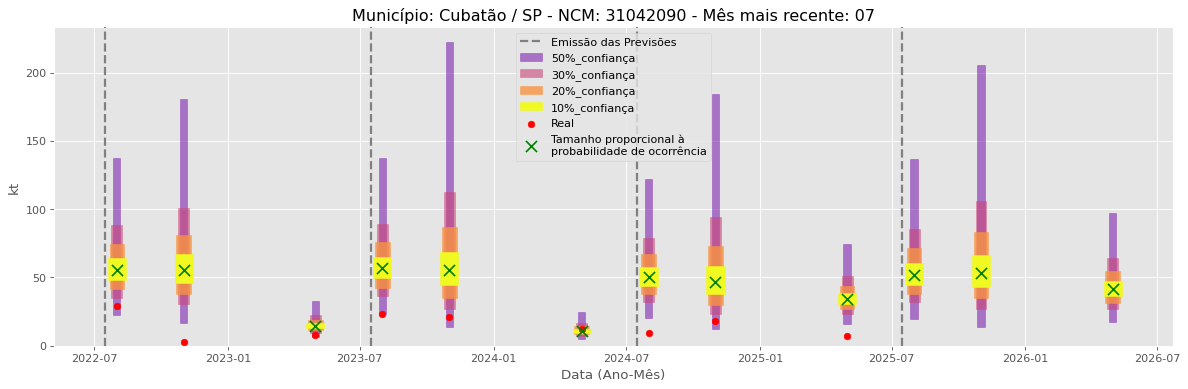
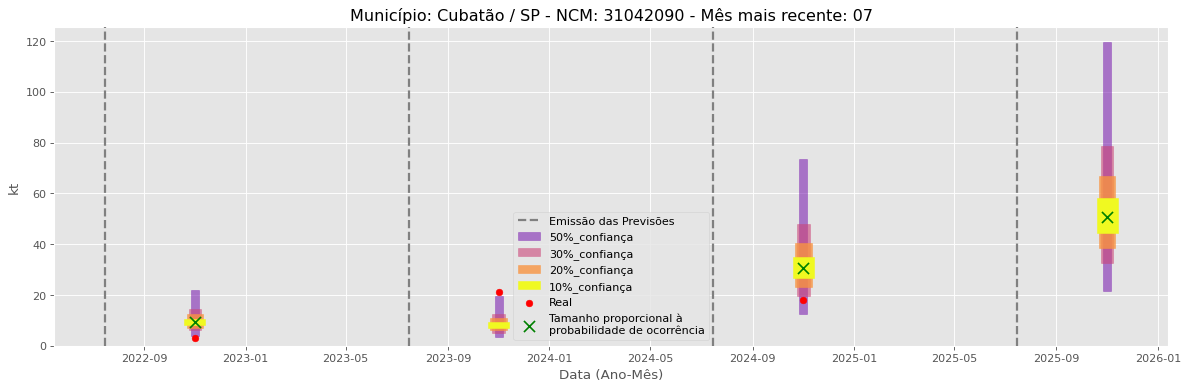
Atualização automática em lote

diff --git a/README.md b/README.md
@@ -21,14 +21,14 @@ Previsões emitidas no mês 8.
 Previsão Influenciada:
 - Município: Cubatão
 - Produto (NCM): Outros cloretos de potássio-31042090 
-- Mês previsto: 08
+- Mês previsto: 11
 
 
 Fator Influenciador: Comex
-- Unidade Federativa: MG
-- Grupo de Produto (SH2): Resíduos e desperdícios das indústrias alimentares; alimentos preparados para animais-23 
-- Mês: 9
-- Unidade: price_mun_lag12
+- Unidade Federativa: SP
+- Grupo de Produto (SH2): Sementes e frutos oleaginosos; grãos, sementes e frutos diversos; plantas industriais ou medicinais; palhas e forragens-12 
+- Mês: 3
+- Unidade: kt_lag13
 
 
 
